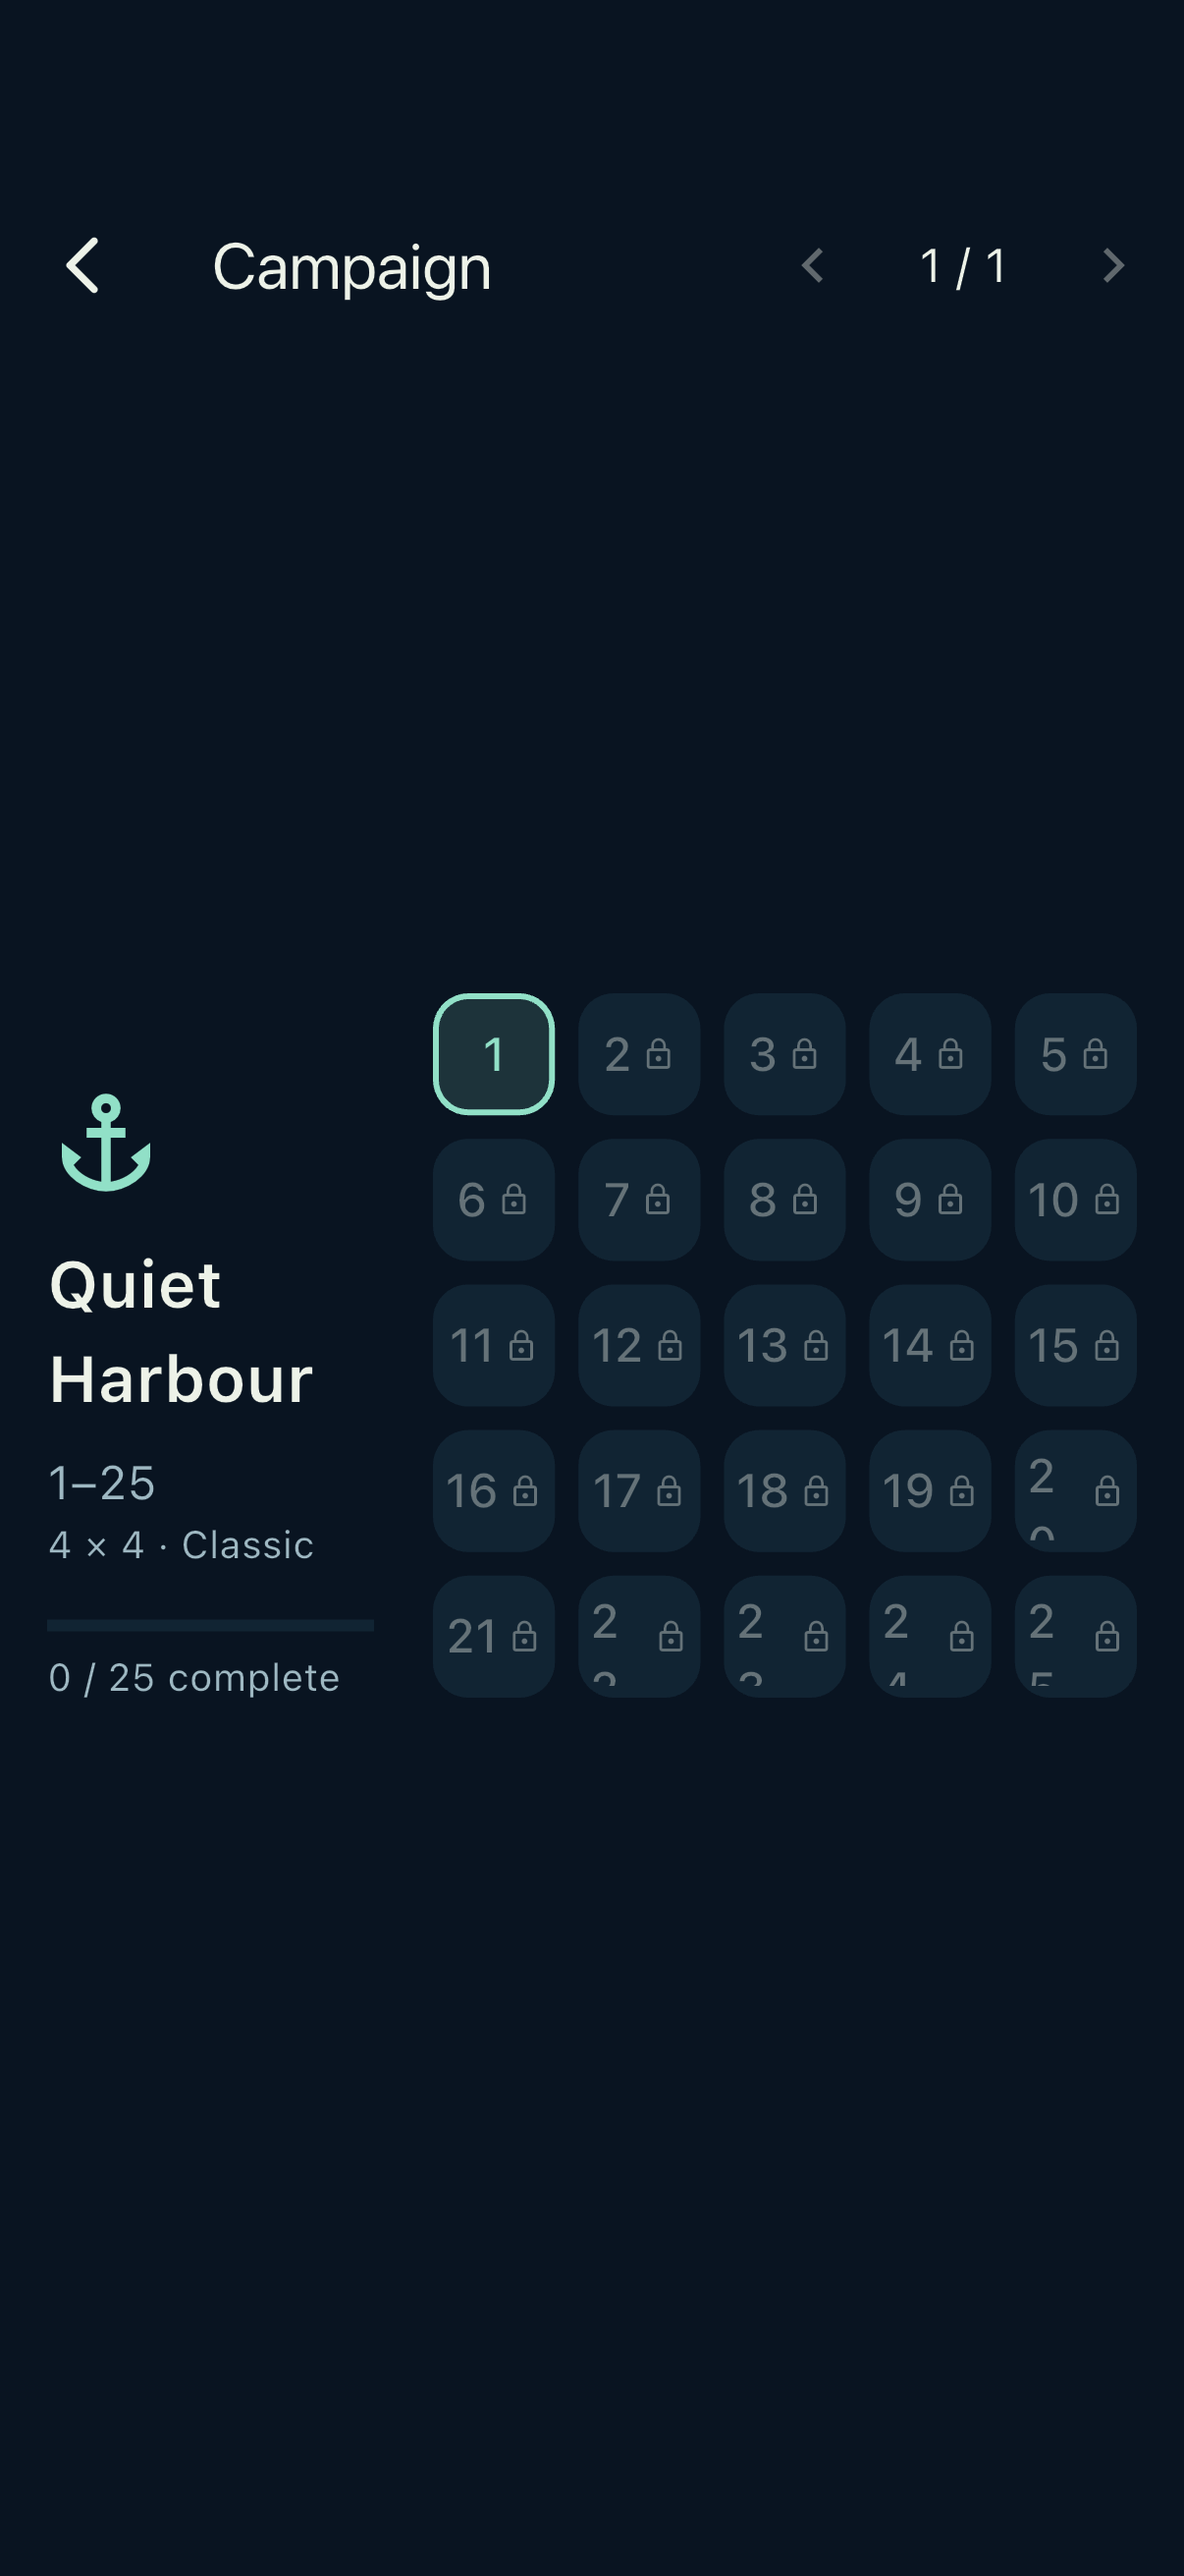
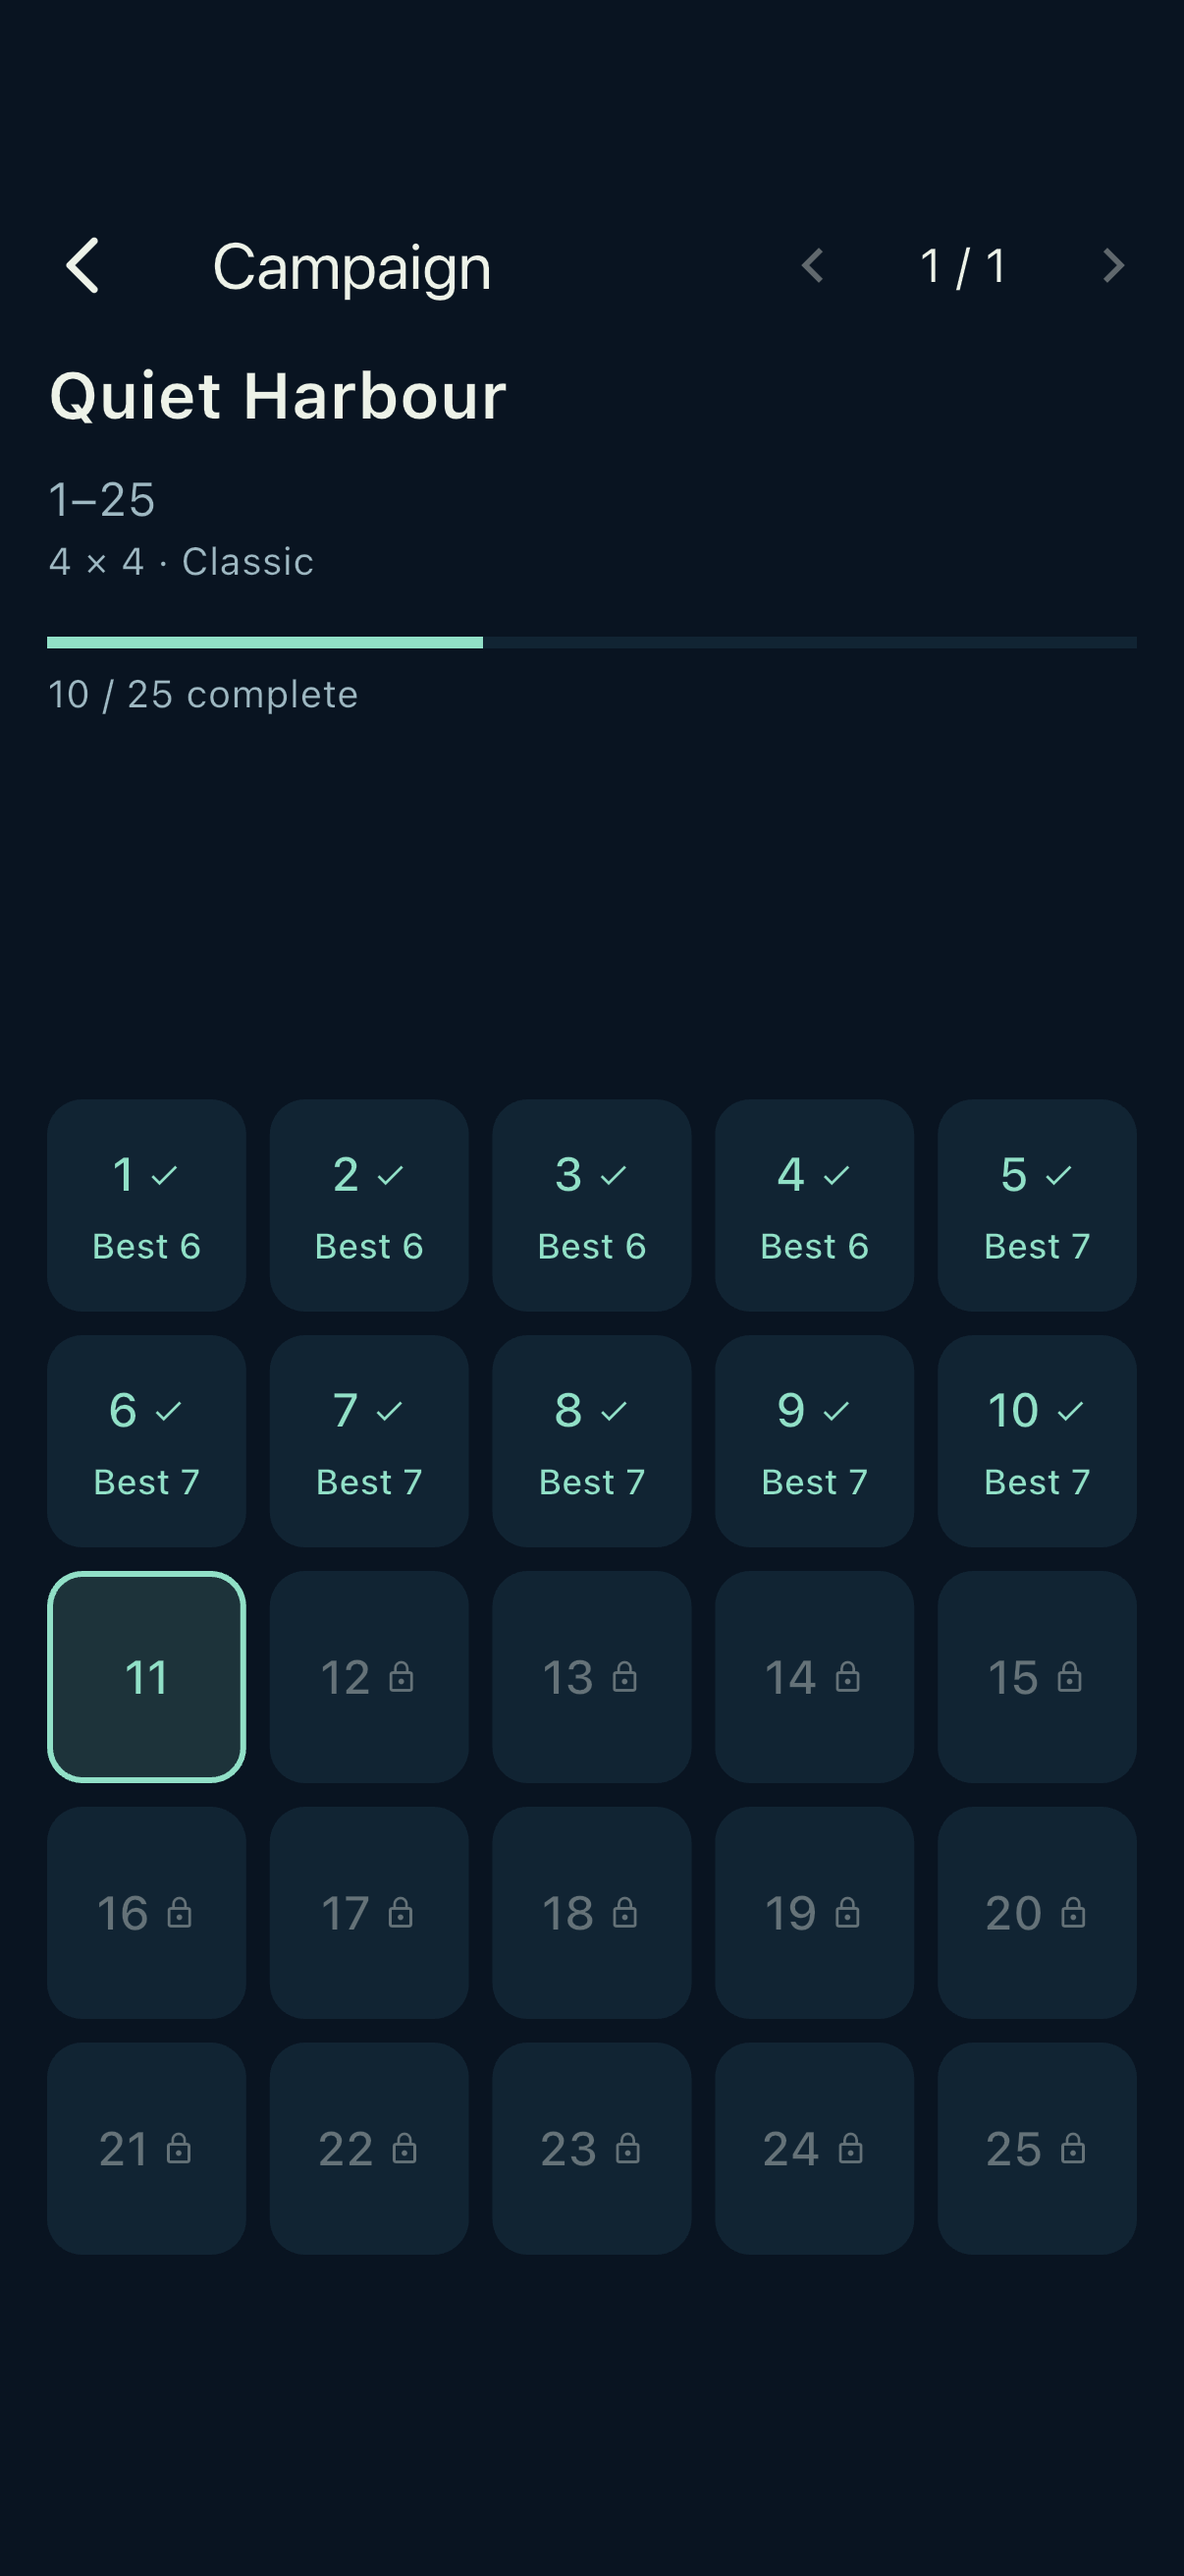
fix: refresh portrait campaign screenshot

diff --git a/index.html b/index.html
@@ -245,7 +245,7 @@
                 height="2622"
                 loading="lazy"
                 decoding="async"
-                alt="The portrait campaign chapter view on iPhone, showing its grid of crossings."
+                alt="The portrait campaign on iPhone, with chapter details above 25 crossings and personal best move counts on completed puzzles."
               />
             </a>
             <figcaption>
